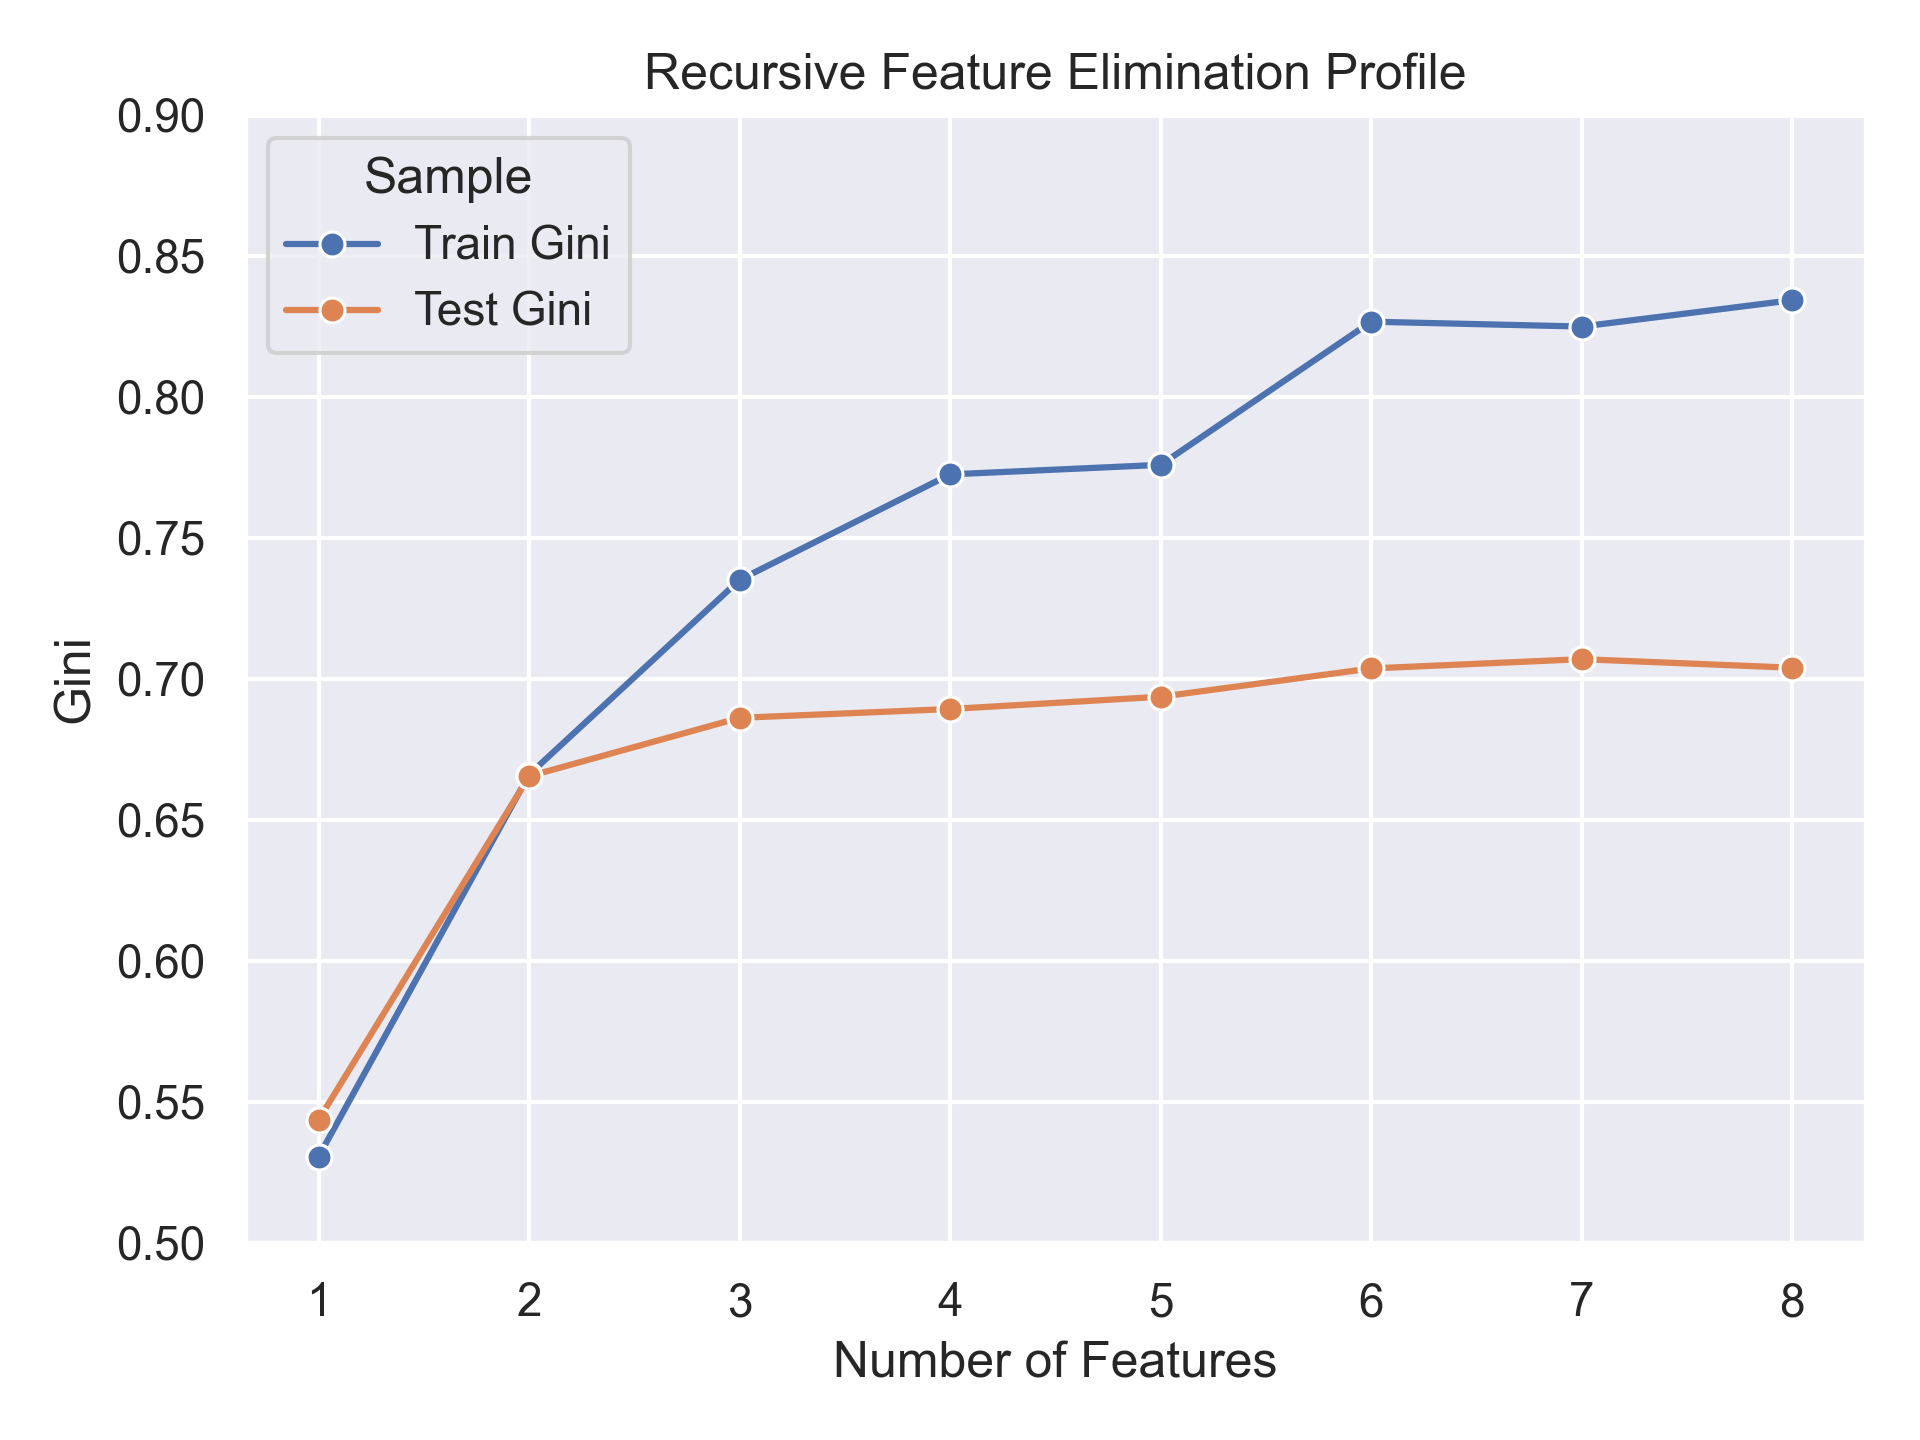
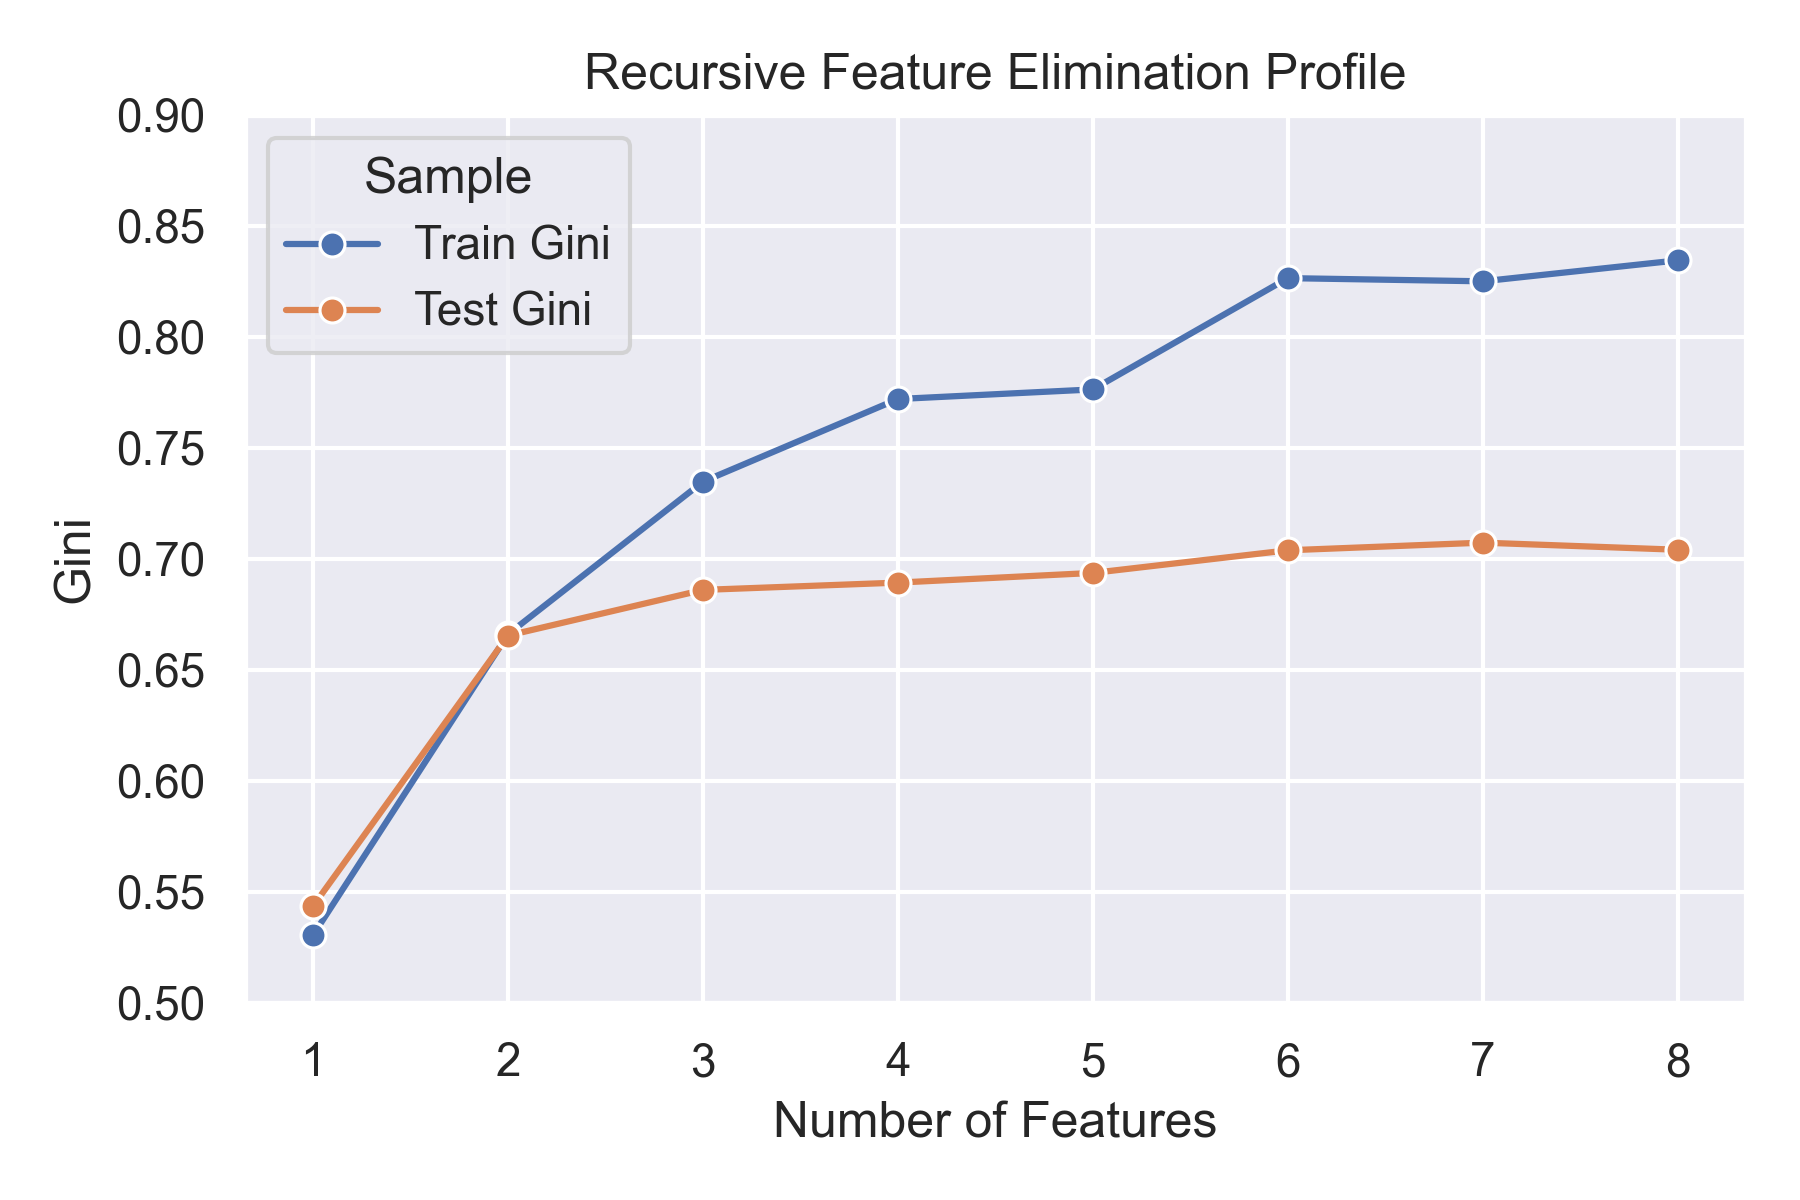
Commit

diff --git a/Portfolio/machine-learning/machine-learning-recursive-feature-elimination.md b/Portfolio/machine-learning/machine-learning-recursive-feature-elimination.md
@@ -89,9 +89,9 @@ The results produce a variable selection profile, that compare the test and trai
 <div style="display: flex; justify-content: center; align-items: flex-start;">
   <figure style="text-align: center; margin: 0;">
     <img src="https://raw.githubusercontent.com/MarkThackham/MarkThackham.github.io/main/Portfolio/machine-learning/recursive-feature-elimination/recursive-feature-elimination-profile.png"
-         alt="Bar Plot of Gini"
+         alt="Recursive Feature Elimination Profile"
          width="800">
-    <figcaption>Bar Plot of Gini</figcaption>
+    <figcaption>Recursive Feature Elimination Profile</figcaption>
   </figure>
 </div>
 

diff --git a/research.md b/research.md
@@ -25,7 +25,7 @@ This section contains my published research articles, theses, and presentations 
   [http://hdl.handle.net/1959.14/1250438](http://hdl.handle.net/1959.14/1250438)
 
 - **Modelling Exposure at Default Without Using Conversion Factors**  
-  [http://hdl.handle.net/1959.14/1195696](http://hdl.handle.net/1959.14/1195696)
+  [https://figshare.mq.edu.au/articles/thesis/Modelling_exposure_at_default_without_using_conversion_factors/19436573?file=34534253](https://figshare.mq.edu.au/articles/thesis/Modelling_exposure_at_default_without_using_conversion_factors/19436573?file=34534253)
 
 ## Research Presentations
 